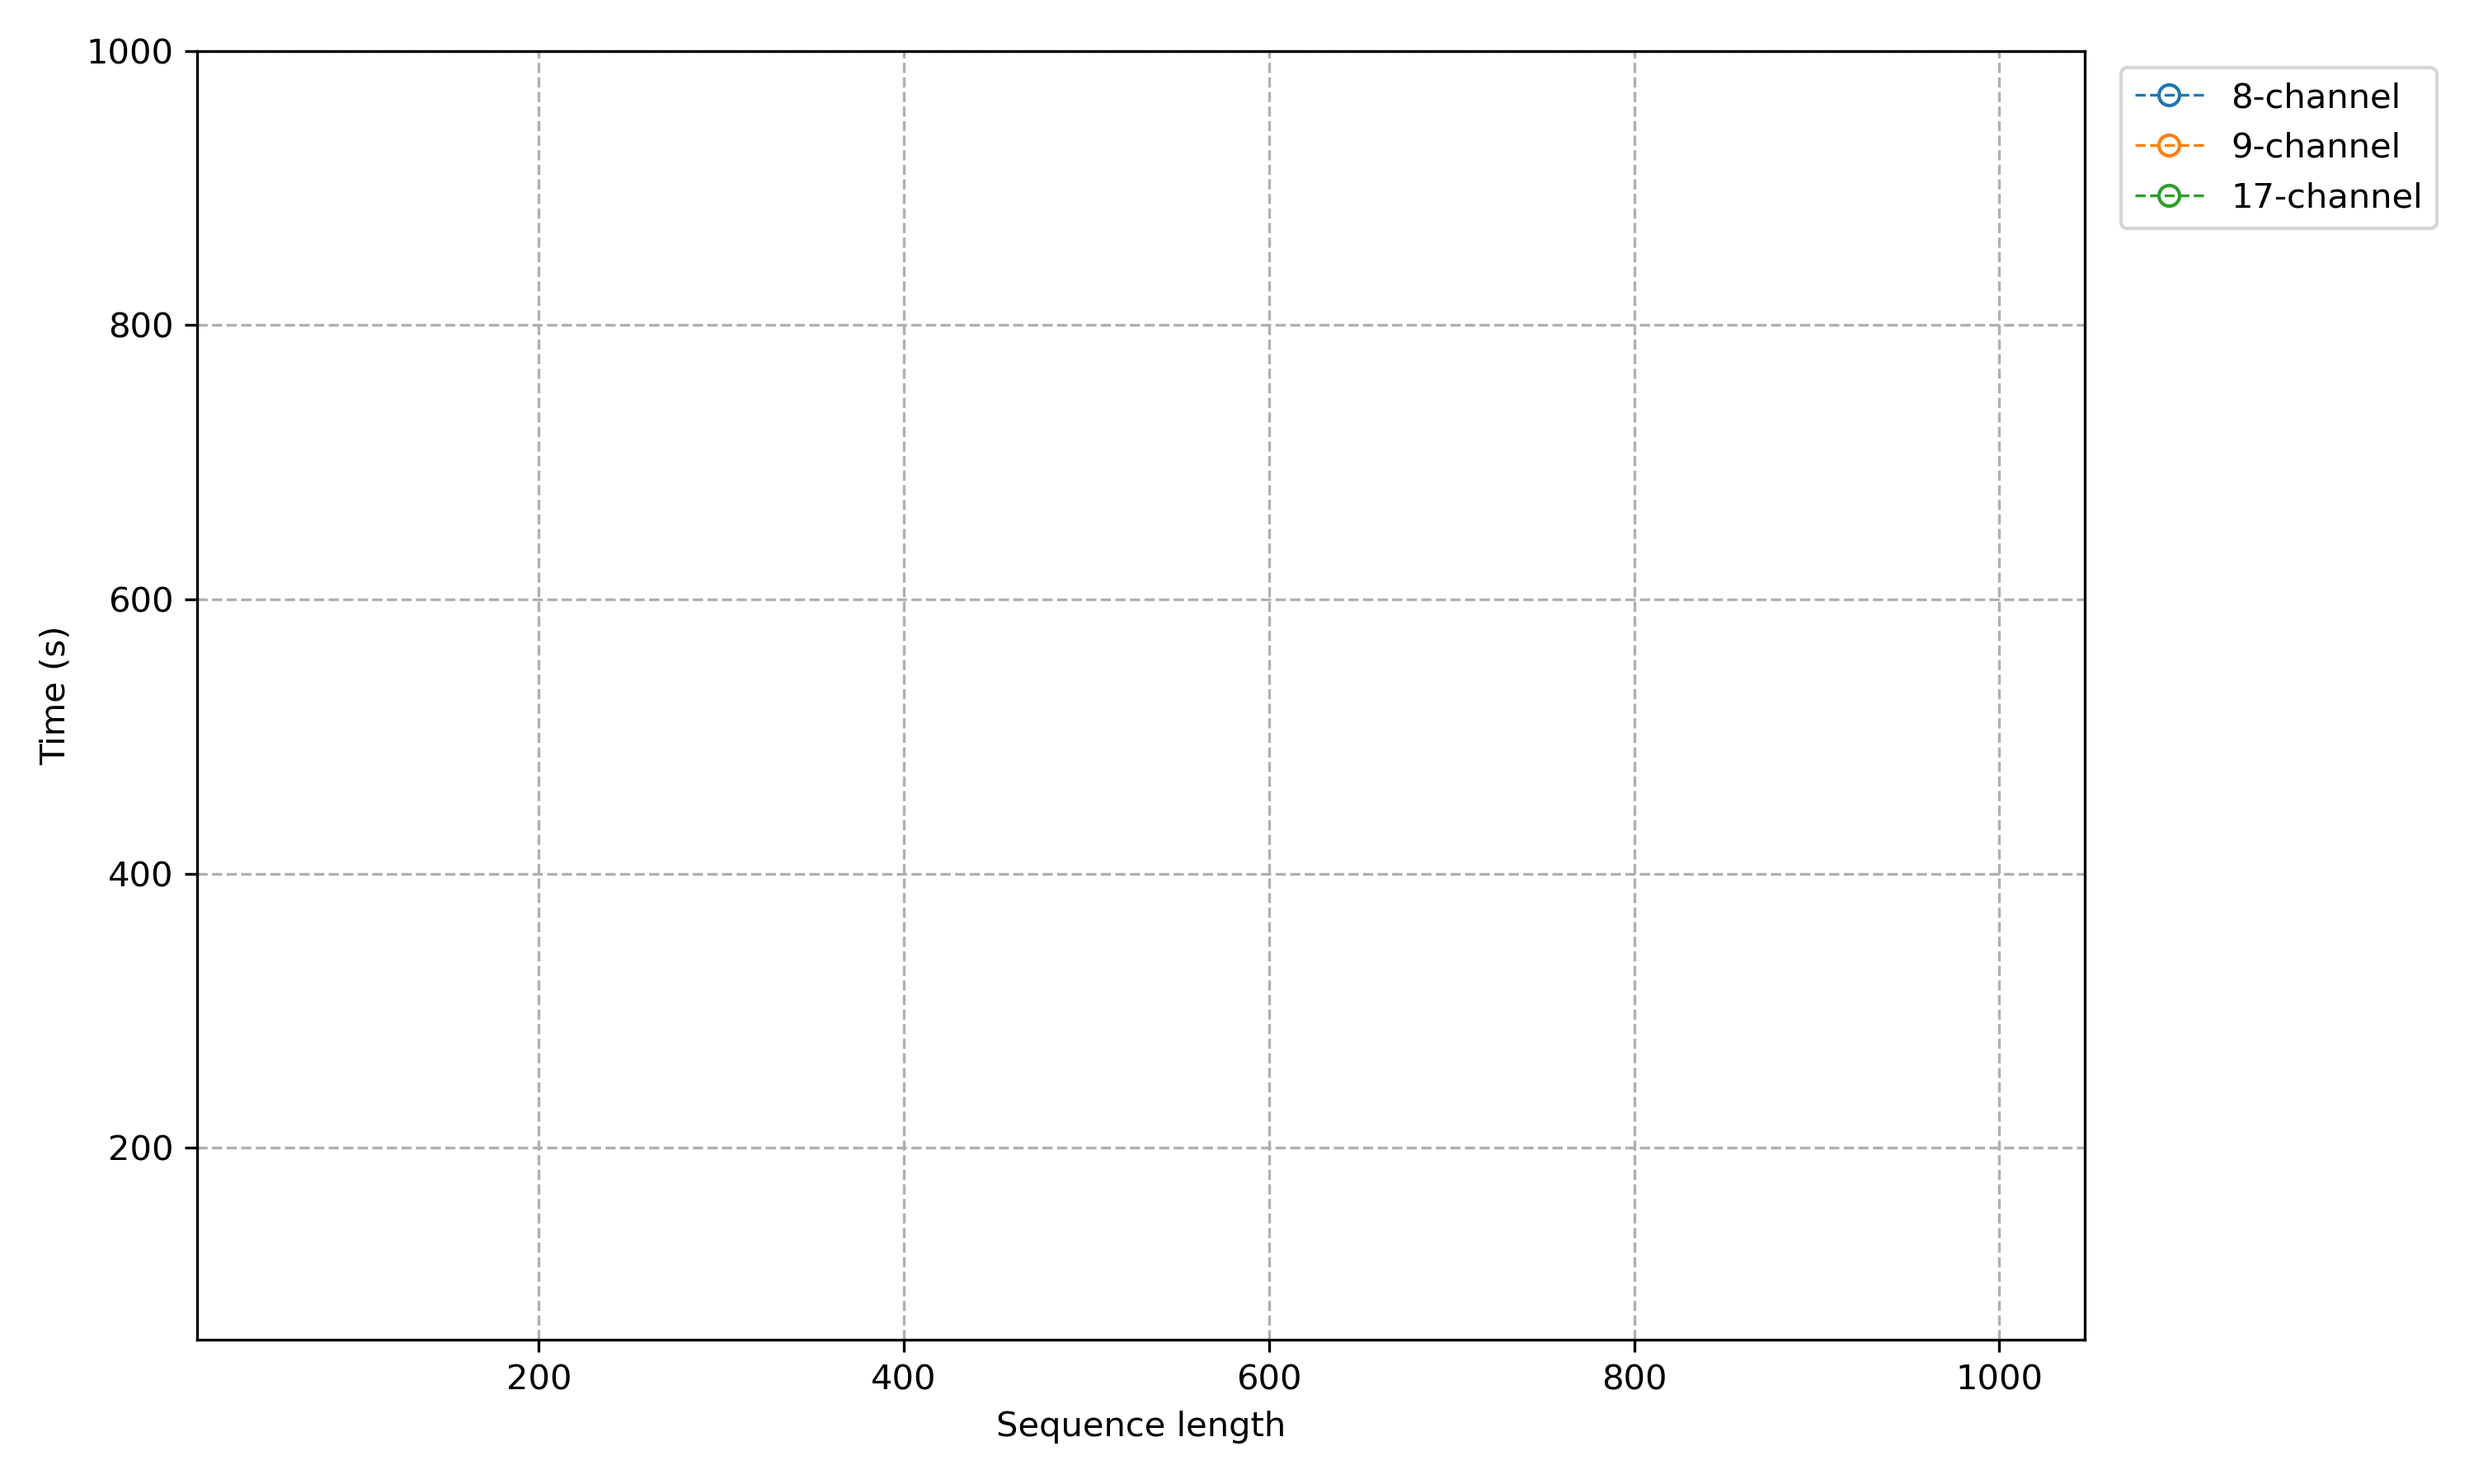
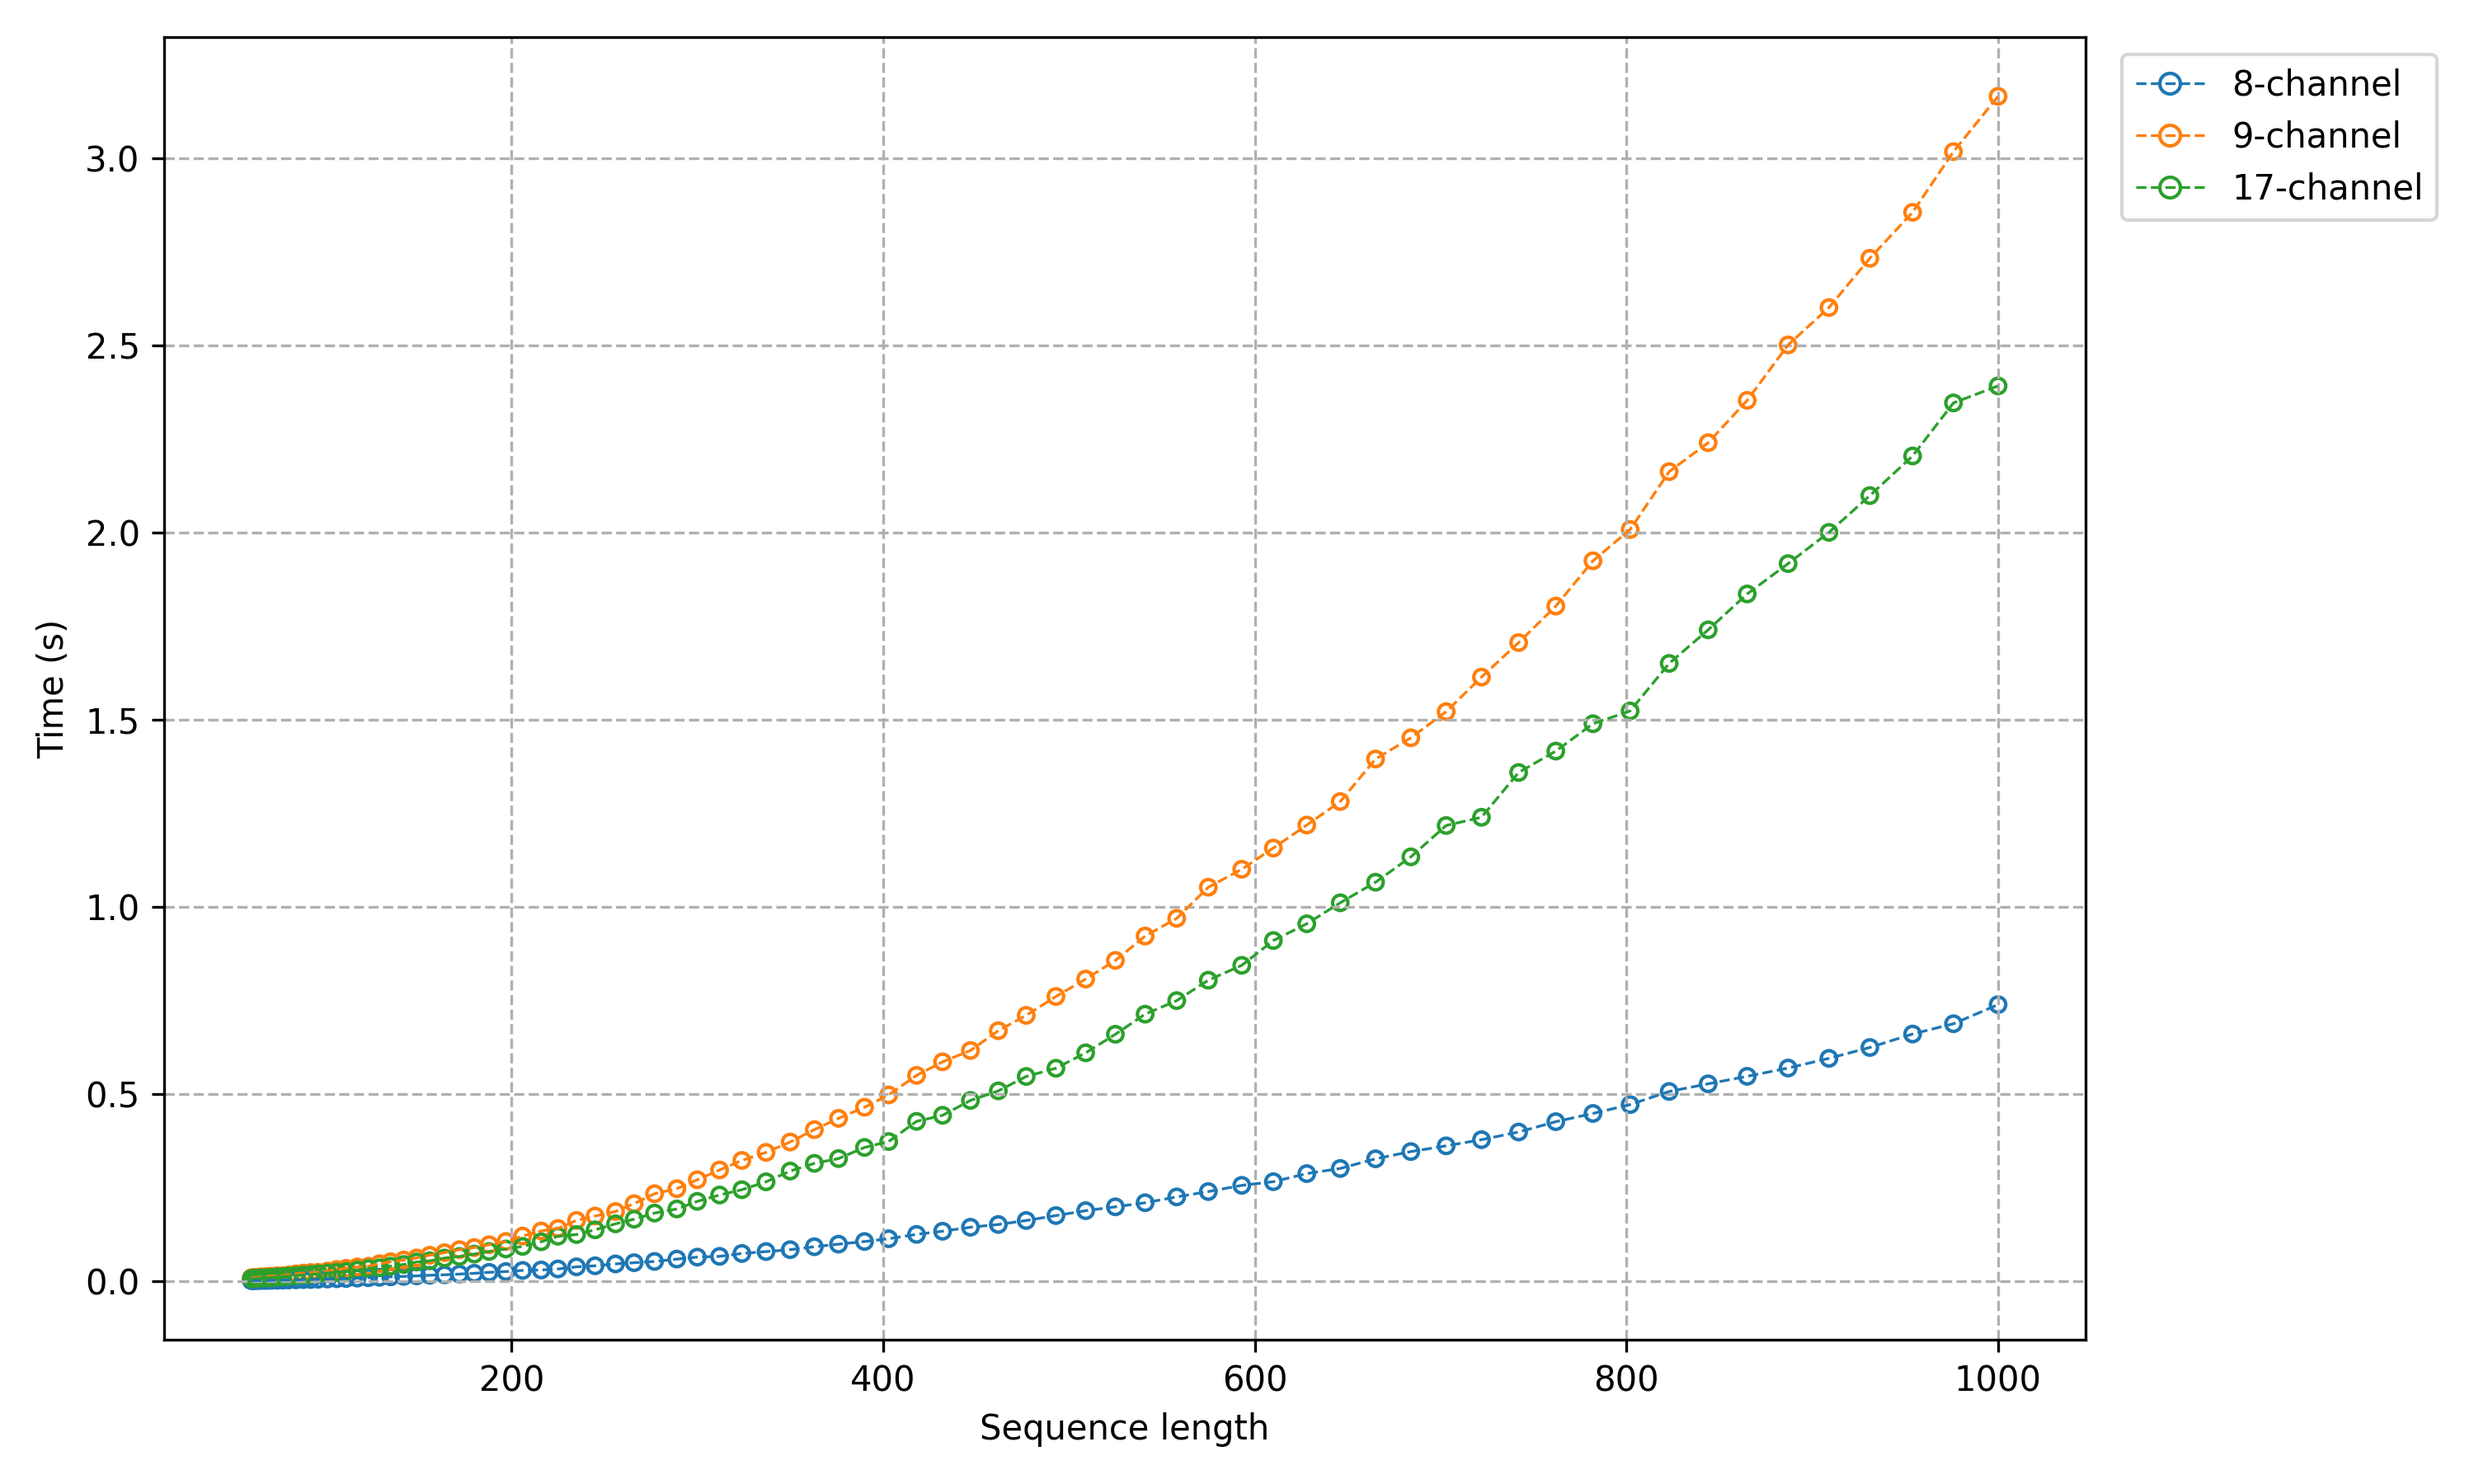
Corrected error in plot

diff --git a/scripts/time_matrix_conversion.py b/scripts/time_matrix_conversion.py
@@ -61,7 +61,7 @@ def average_times(func, func_name, repeats = 3, n = 81, min_length = 60, max_len
     
     return average[1:]
 
-def plot_timedict(timedict, lengths, outputfile = None, min_length = 60, max_length = 1000):
+def plot_timedict(timedict, lengths, outputfile = None):
     colors = ['C0', 'C1', 'C2', 'C3', 'C4', 'C5', 'C6', 'C7', 'C8', 'C9']
     
     
@@ -76,7 +76,6 @@ def plot_timedict(timedict, lengths, outputfile = None, min_length = 60, max_len
     
     ax.legend(handles = handles, loc = 'upper left', bbox_to_anchor = (1.01, 1))
     ax.grid(linestyle = '--')
-    ax.set_ylim(min_length, max_length)
     ax.set_xlabel("Sequence length")
     ax.set_ylabel("Time (s)")
 
